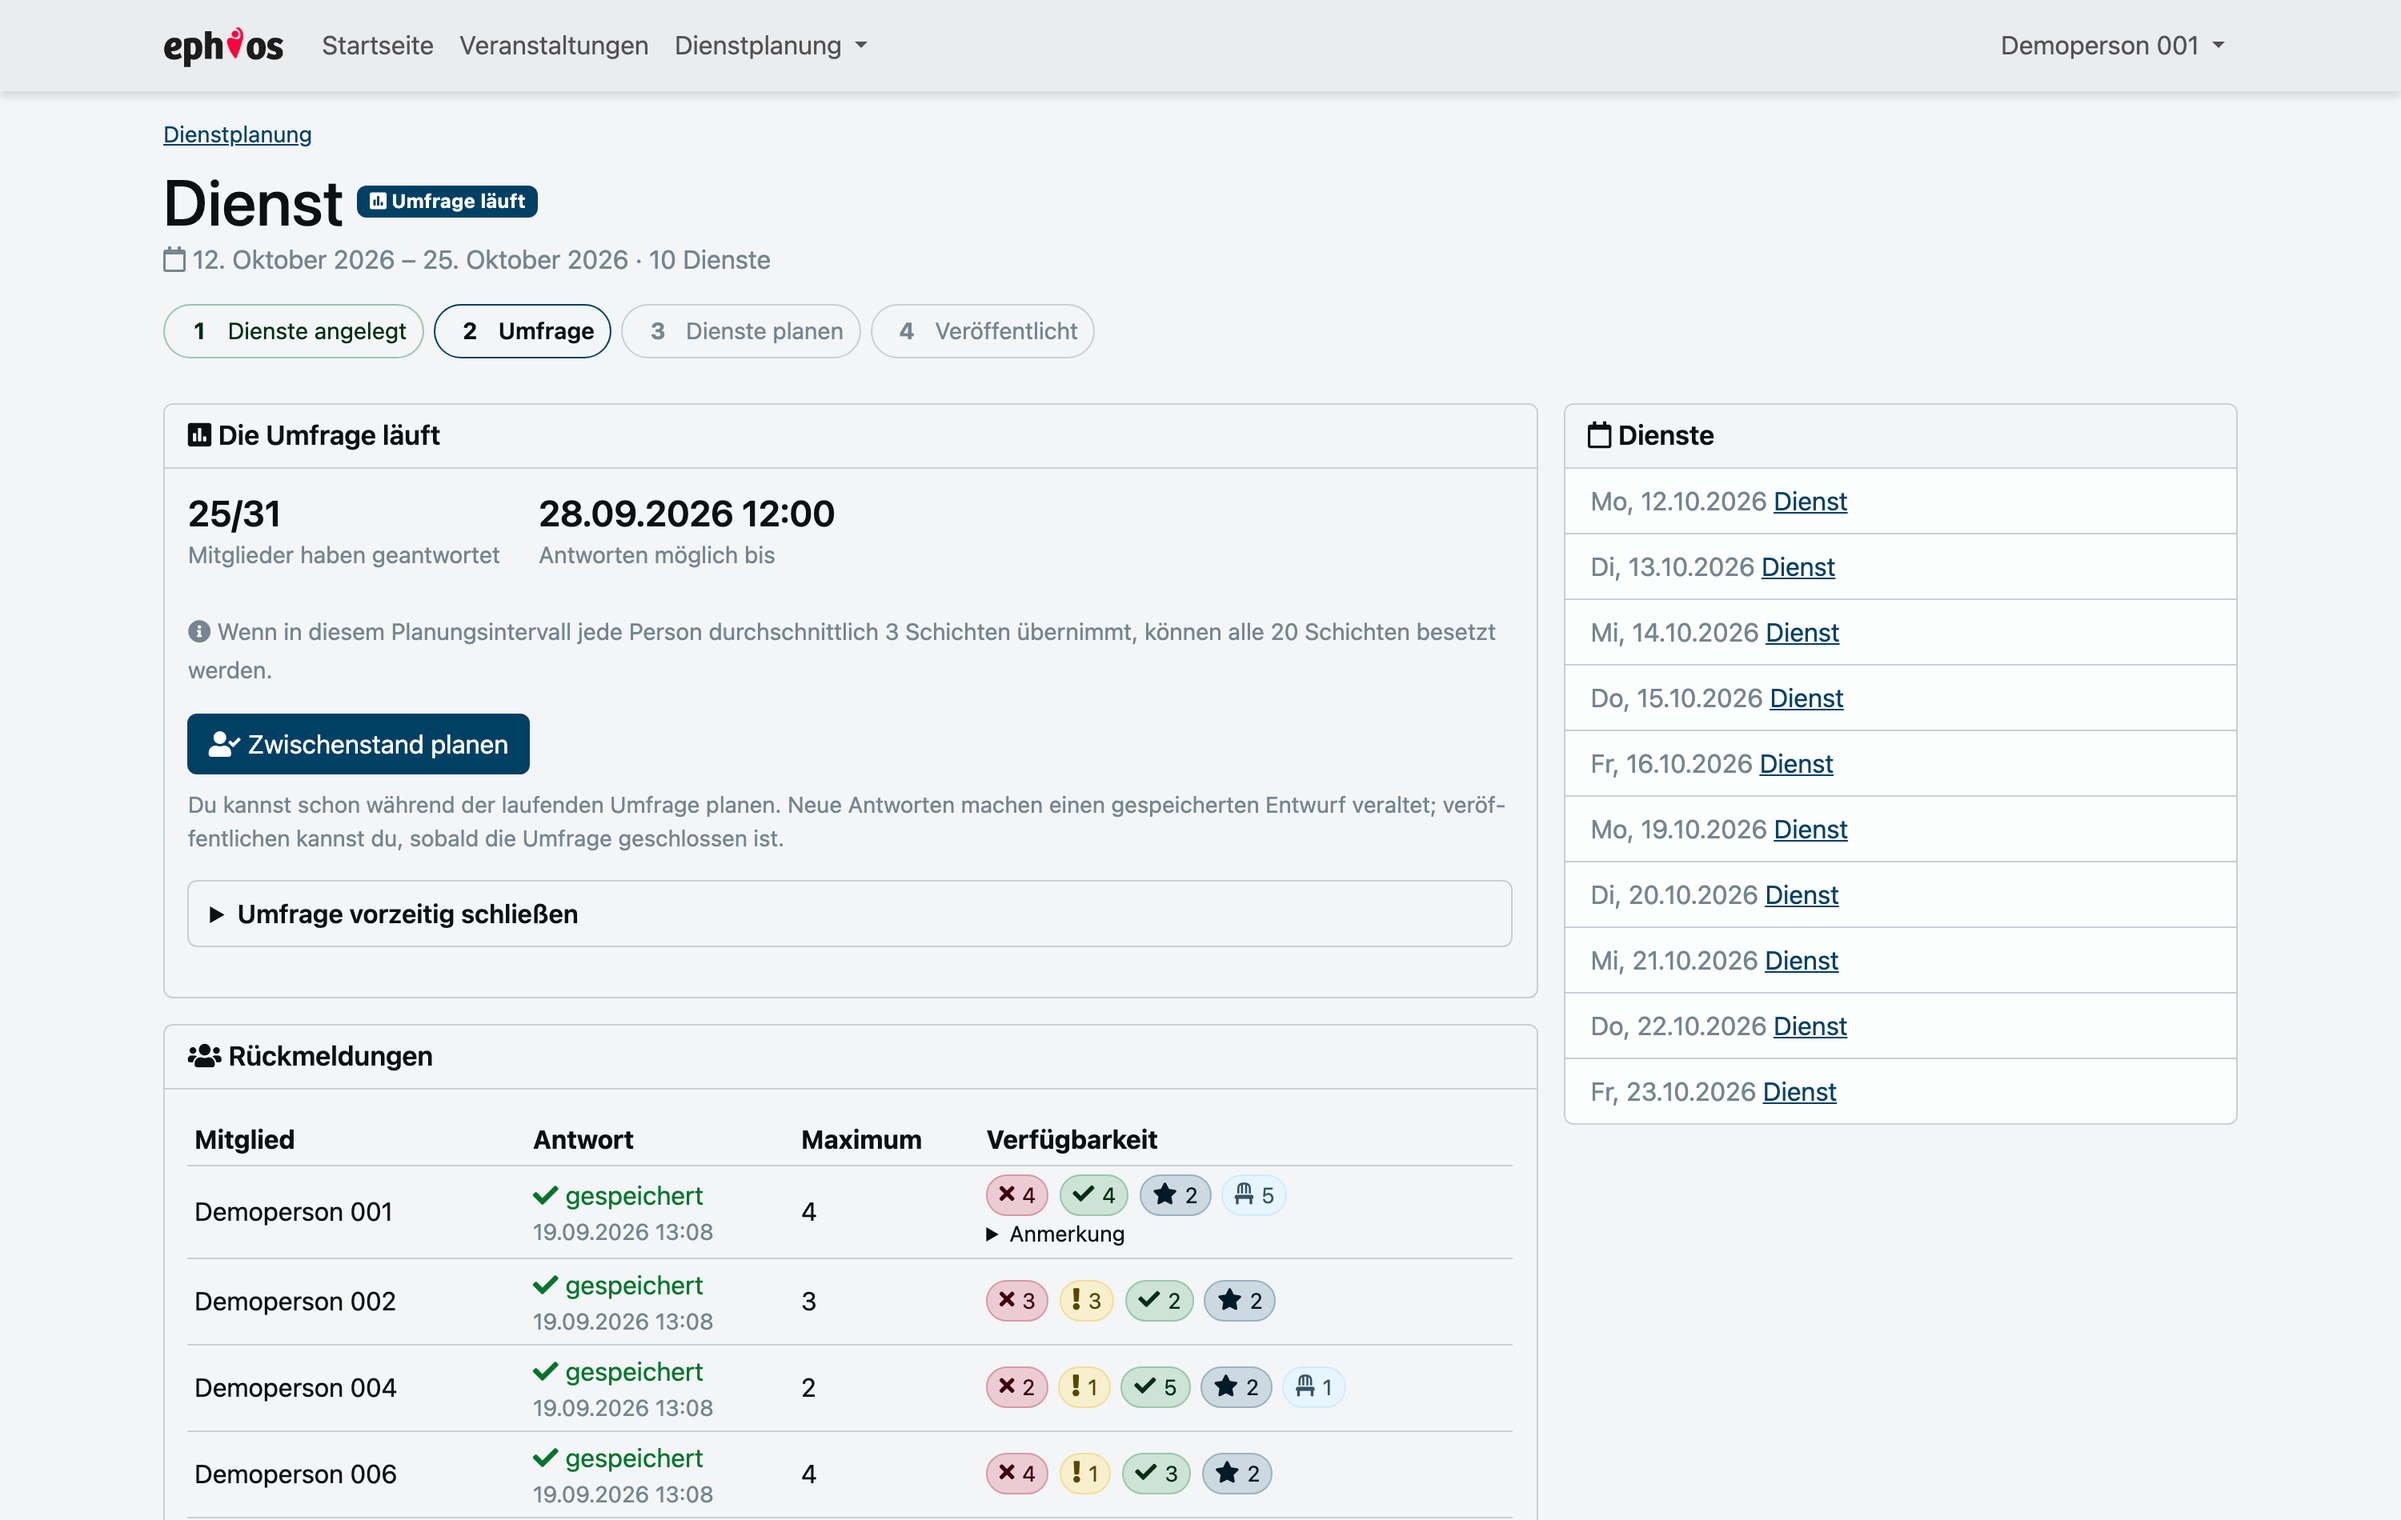
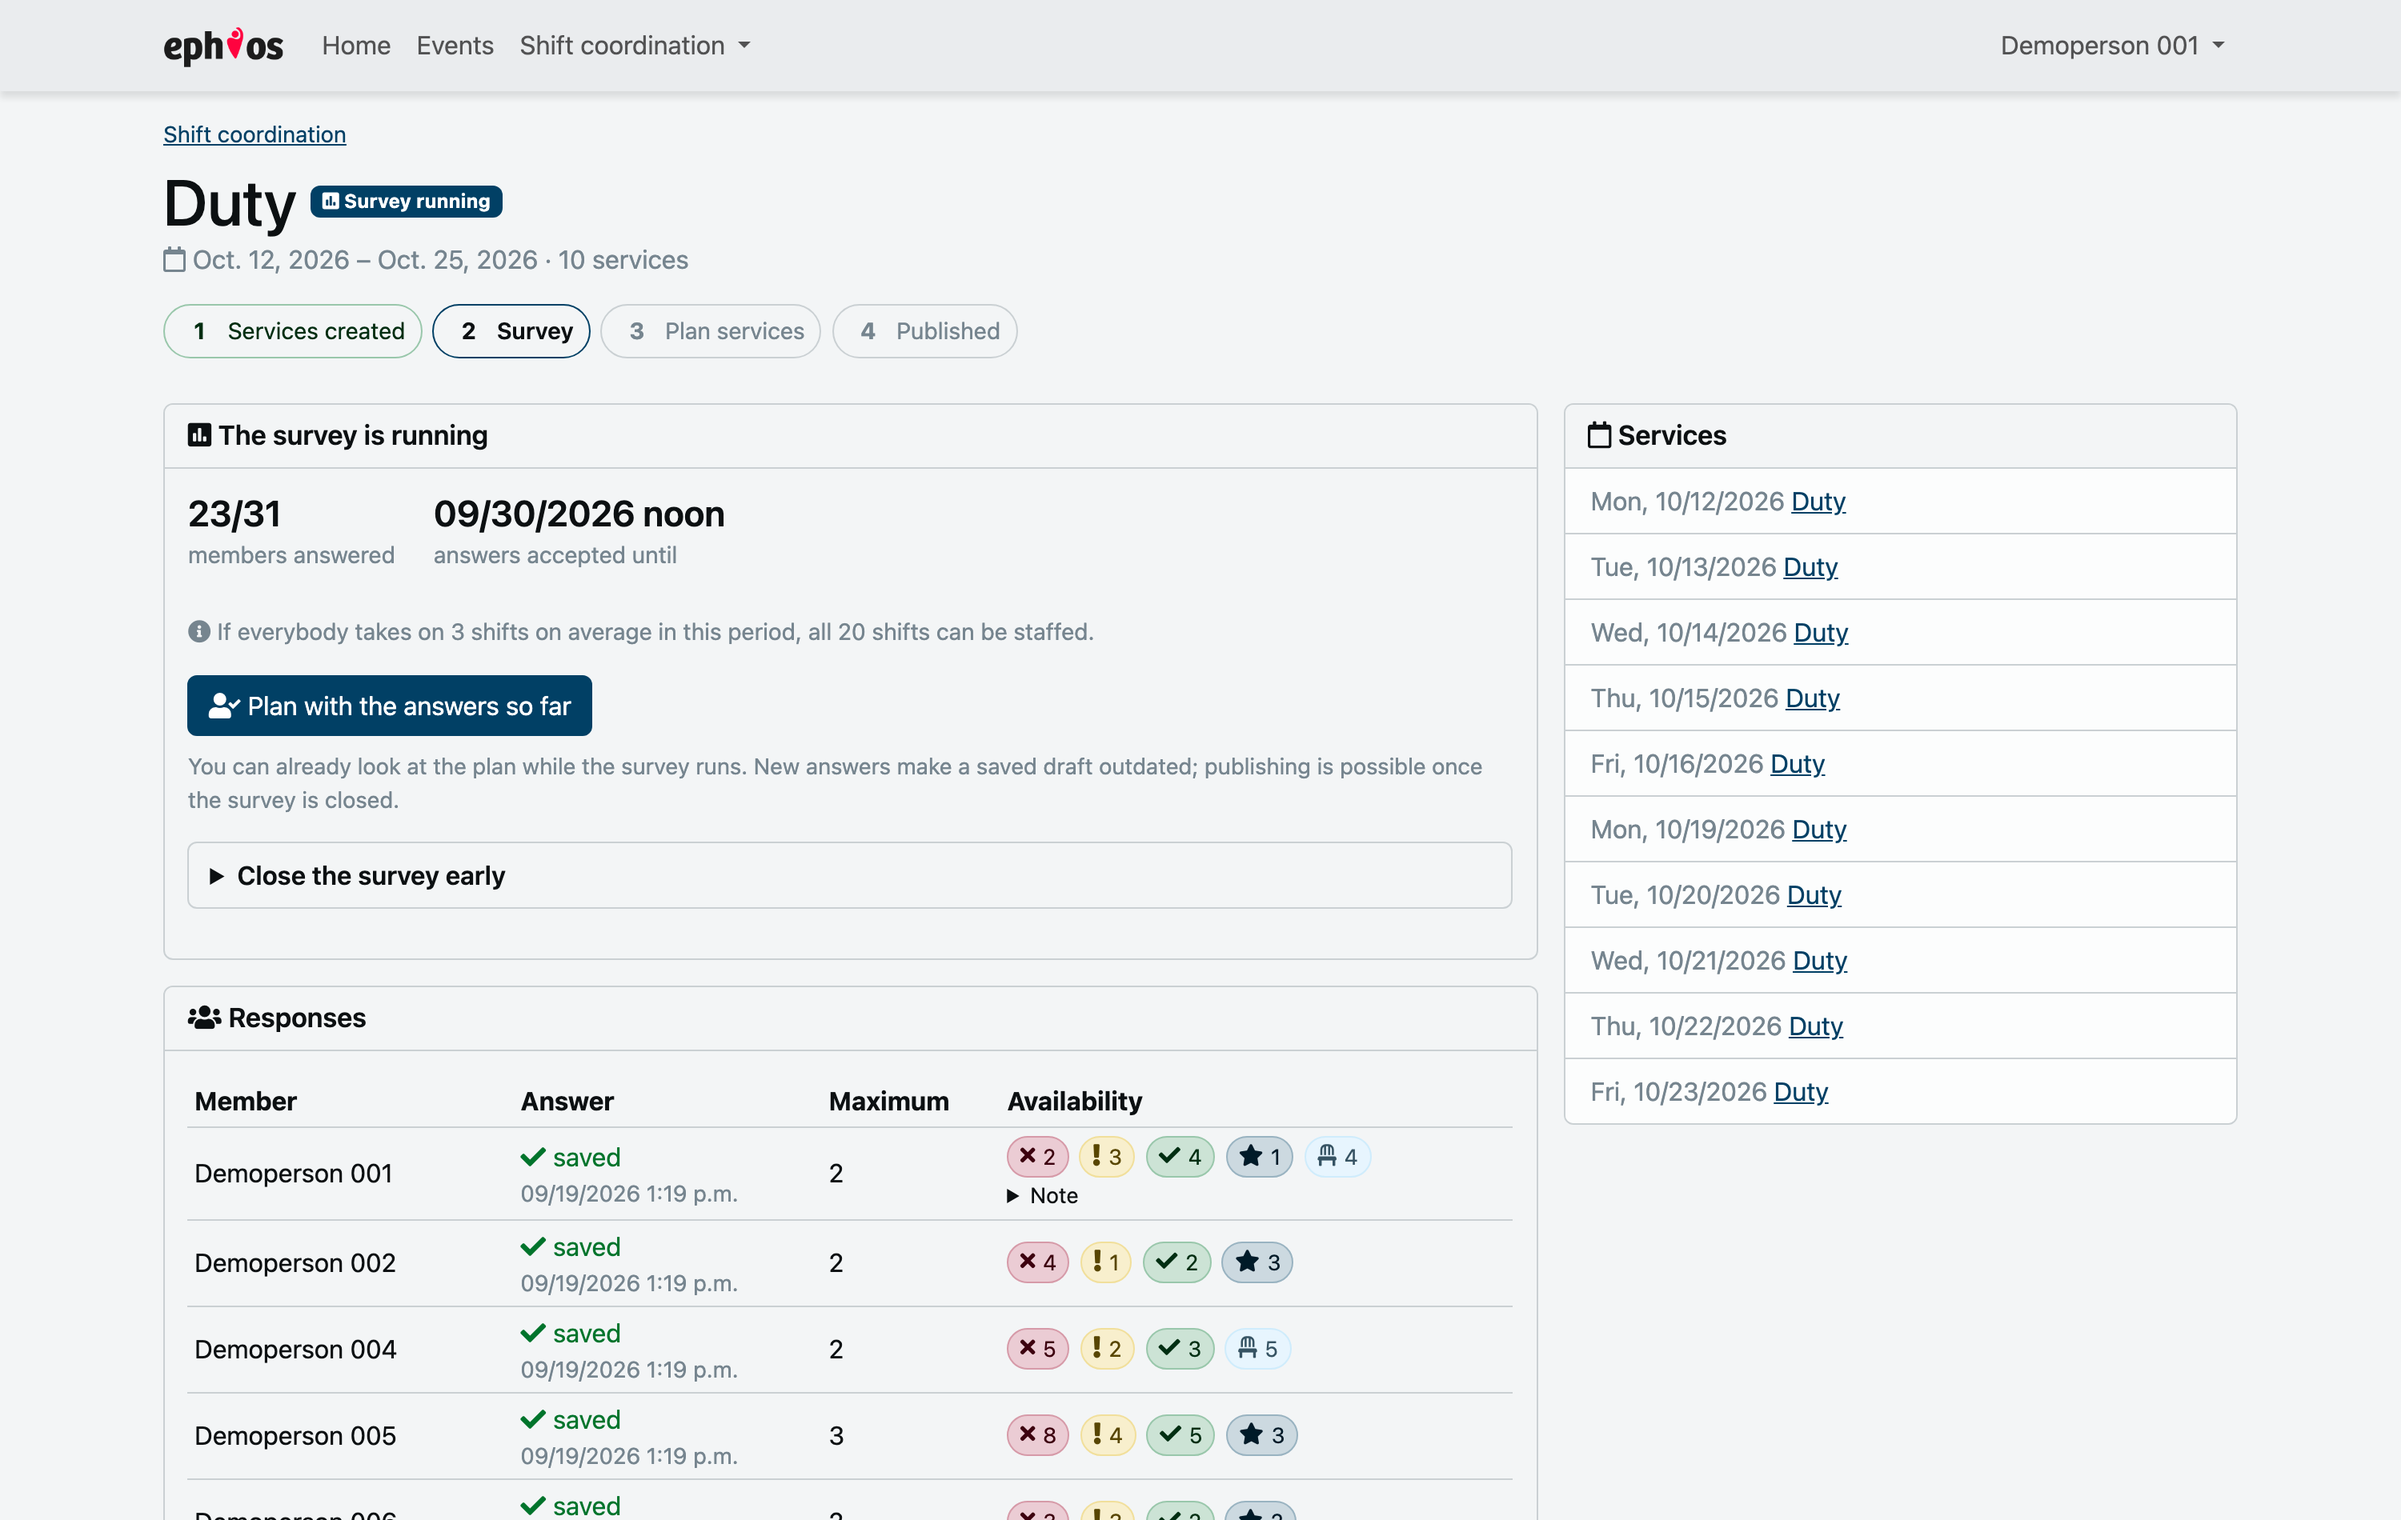
Show the feature tour in English with a varied plan

diff --git a/docs/screenshots.md b/docs/screenshots.md
@@ -21,24 +21,28 @@ survey early takes one confirmation.
 ## Plan
 
 The whole period on one page, only the weekdays that carry shifts, everybody's remaining
-capacity in the sidebar. **Vorschlag berechnen** fills as many shifts as the rules allow, the
-counters update as you edit, and a speech bubble marks everybody who wrote a note.
+capacity in the sidebar. **Calculate proposal** fills as many shifts as the rules allow and
+marks how each person rated the shift they got: preferred, available, if needed, or sitting in.
+What nobody can cover stays visibly empty.
 
 ![The planning view with a calculated proposal](images/planning.png)
 
 ## Check and publish
 
 Publication takes the saved shared draft and nothing else. It creates confirmed ephios
-participations and sends one summary per person.
+participations and sends one summary per person; shifts below their minimum have to be
+confirmed first.
 
 ![The publication check](images/publication.png)
 
 ## Staff and replace
 
 After publication every service shows who answered they are available that day, whether they
-could take the shift and what speaks against it. Members sign off or step in from the service
-page itself.
+could take the shift and what speaks against it.
 
 ![The replacement overview](images/replacement.png)
 
-<img src="images/service-phone.png" alt="A published service on a phone" width="360">
+Members do not need that page for the usual case: the service itself carries their own state
+and the way out of it.
+
+![A published service with its shift coordination panel](images/service.png)
